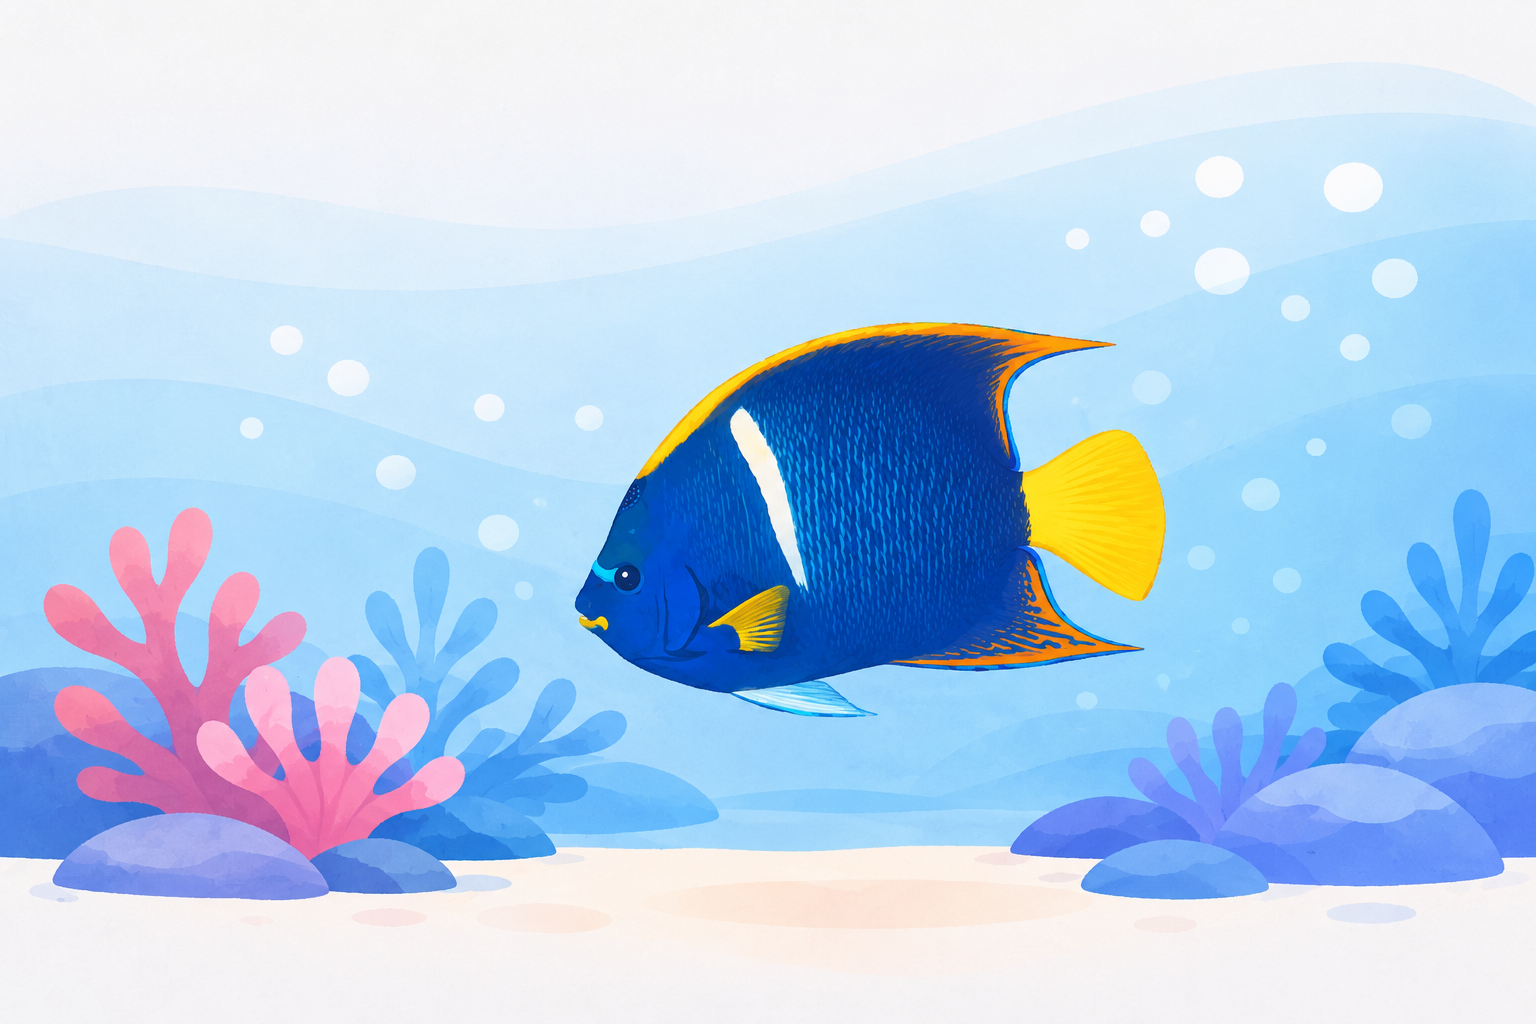
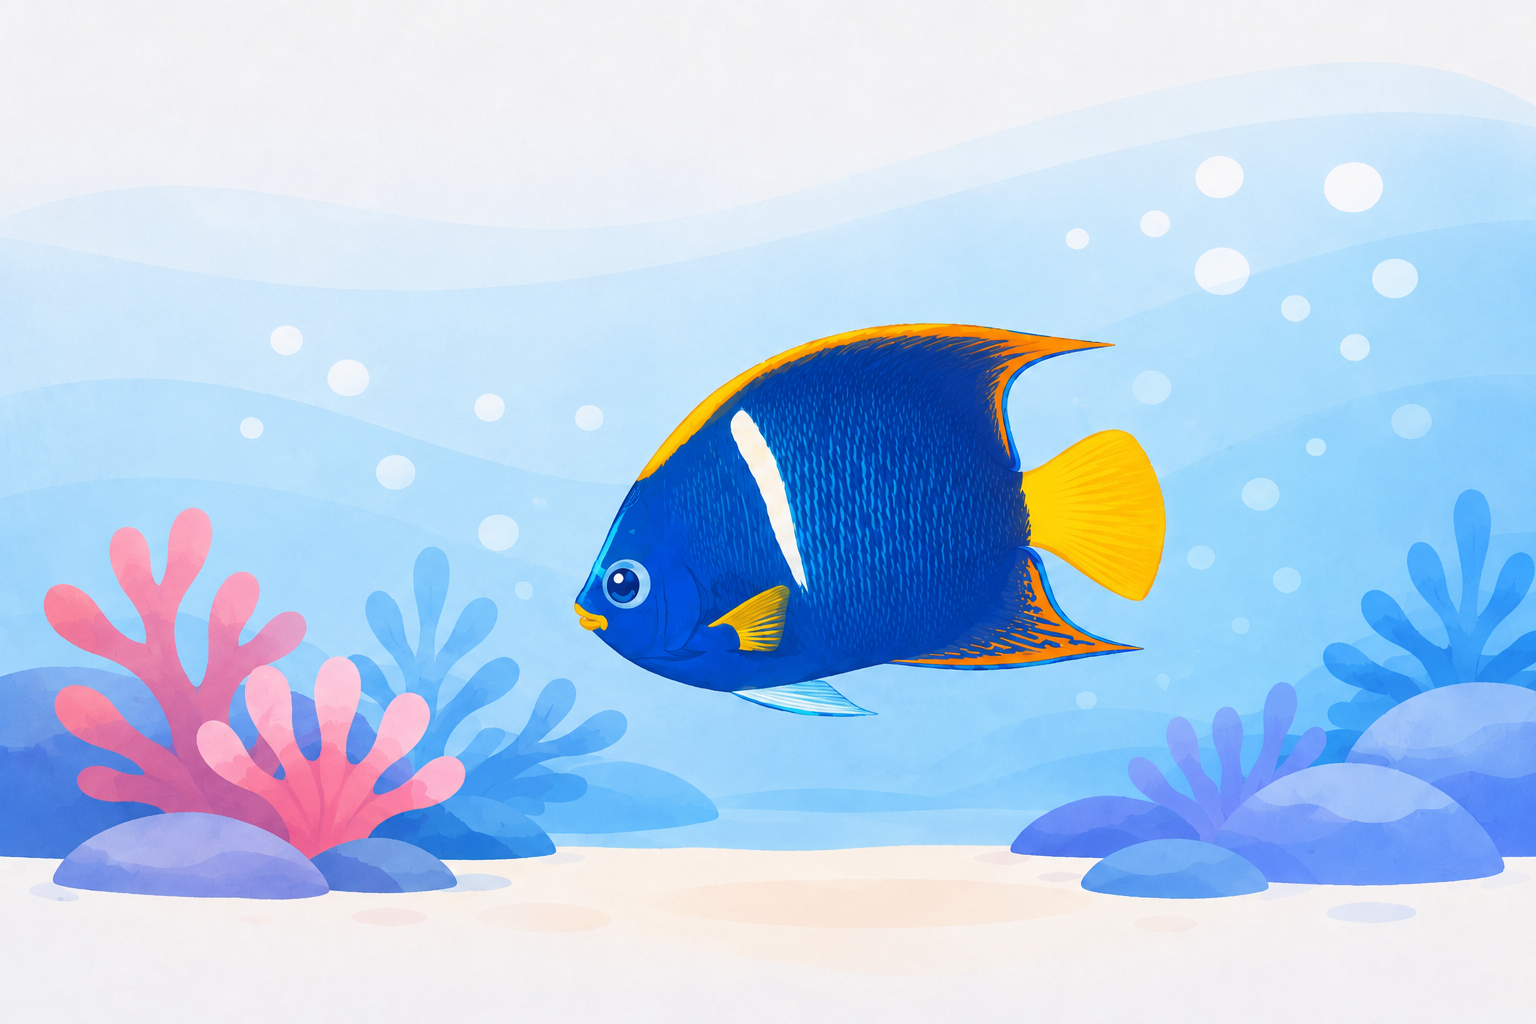
Agregue imagenes a sus respectivas especies

Changed region(s): [[0.375, 0.3125, 0.7188, 0.7188], [0.5625, 0.4375, 0.75, 0.6562]]

diff --git a/app/controllers/RegisterController.php b/app/controllers/RegisterController.php
@@ -12,8 +12,8 @@ use PHPMailer\PHPMailer\Exception;
 // ========== CONFIGURACIÓN SMTP ==========
 // ⚠ CAMBIA ESTOS VALORES POR LOS REALES
 define('SMTP_HOST', 'smtp.gmail.com');
-define('SMTP_USER', 'aqui va el secreto');          // ← CORREO DE BLUE ECOSIM
-define('SMTP_PASS', 'aqui va el secreto');              // ← CONTRASEÑA DE APLICACIÓN (16 caracteres sin espacios)
+define('SMTP_USER', 'secreto aqui');          // ← CORREO DE BLUE ECOSIM
+define('SMTP_PASS', 'secreto aqui');              // ← CONTRASEÑA DE APLICACIÓN (16 caracteres sin espacios)
 define('SMTP_PORT', 587);
 define('FROM_EMAIL', SMTP_USER);
 define('FROM_NAME', 'Blue EcoSim');

diff --git a/app/controllers/GoogleAuthController.php b/app/controllers/GoogleAuthController.php
@@ -4,8 +4,8 @@ require_once __DIR__ . '/../models/Conexion.php';
 $conexion = new Conexion();
 $conn = $conexion->getConnection();
 
-$clientID = 'el secreto va aqui';
-$clientSecret = 'el secreto va aqui';
+$clientID = 'secreto aqui';
+$clientSecret = 'secreto aqui';
 $redirectUri  = 'http://localhost/Simulador-Acu-tico-main/views/google-callback.php';
 
 // Si no hay código, volver al login

diff --git a/views/google-login.php b/views/google-login.php
@@ -9,8 +9,8 @@ if (isset($_GET['rol'])) {
     }
 }
 
- $clientID = 'el secreto va aqui';
-$clientSecret = 'el secreto va aqui';
+$clientID = 'secreto aqui';
+$clientSecret = 'secreto aqui';
 $redirectUri = 'http://localhost/Simulador-Acu-tico-main/views/google-callback.php';
 
 // Construir URL de autenticación de Google manualmente

diff --git a/app/controllers/GoogleLoginController.php b/app/controllers/GoogleLoginController.php
@@ -1,8 +1,8 @@
 <?php
 session_start();
 
-$clientID = 'el secreto va aqui';
-$clientSecret = 'el secreto va aqui';
+$clientID = 'secreto aqui';
+$clientSecret = 'secreto aqui';
 $redirectUri = 'http://localhost/Simulador-Acu-tico-main/views/google-callback.php';
 
 // Construir URL de autenticación de Google manualmente
